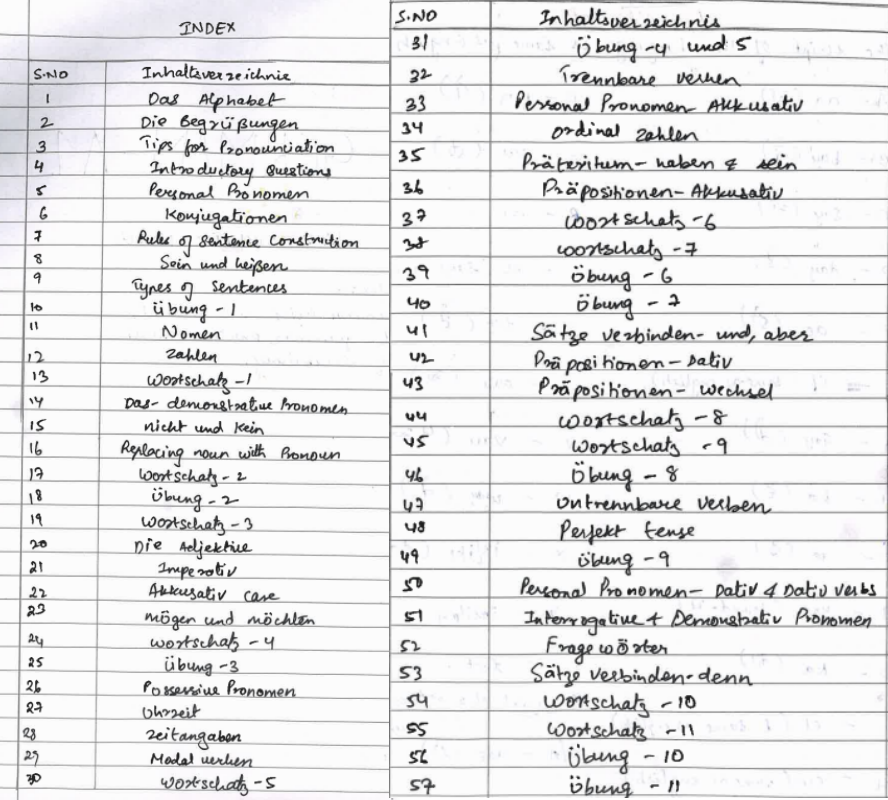
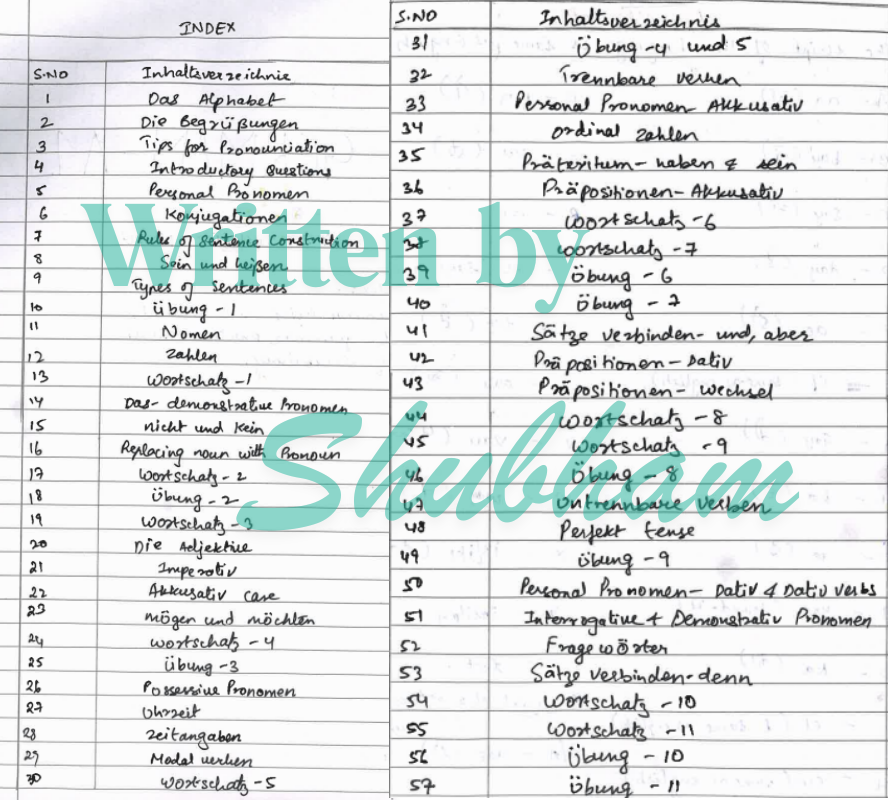
update

Changed region(s): [[0.2432, 0.5, 0.9122, 0.6875], [0.0912, 0.25, 0.6689, 0.4062]]

diff --git a/notes_update.html b/notes_update.html
@@ -480,7 +480,7 @@
                                     <!-- Centered PDF Viewer -->
                                     <div class="pdf-viewer-wrapper">
                                         <div class="pdf-viewer">
-                                            <iframe src="notesa1.pdf"></iframe>
+                                            <iframe src="notesa1"></iframe>
                                         </div>
                                     </div>
 
@@ -547,7 +547,84 @@
     </div>
     <!-- End Course Details -->
 
-    
+
+    <!-- Start Contact Us 
+    ============================================= -->
+    <div class="contact-style-one-area overflow-hidden default-padding-bottom">
+        <div class="container">
+            <div class="row">
+
+                <div class="contact-stye-one col-lg-10 offset-lg-1">
+                    <div class="contact-form-style-one">
+                        <h2 class="heading">Fill the Form for Notes</h2>
+                        <form action="assets/mail/still yet to write" method="POST" class="contact-form contact-form">
+                            <div class="row">
+                                <div class="col-lg-12">
+                                    <div class="form-group">
+                                        <input class="form-control" id="name" name="name" placeholder="Name"
+                                            type="text">
+                                        <span class="alert-error"></span>
+                                    </div>
+                                </div>
+                            </div>
+                            <div class="row">
+                                <div class="col-lg-6">
+                                    <div class="form-group">
+                                        <input class="form-control" id="email" name="email" placeholder="Email*"
+                                            type="email">
+                                        <span class="alert-error"></span>
+                                    </div>
+                                </div>
+                                <div class="col-lg-6">
+                                    <div class="form-group">
+                                        <input class="form-control" id="phone" name="phone" placeholder="Phone"
+                                            type="text">
+                                        <span class="alert-error"></span>
+                                    </div>
+                                </div>
+                            </div>
+                            <!-- <div class="row">
+                                <div class="col-lg-12">
+                                    <div class="form-group comments">
+                                        <textarea class="form-control" id="comments" name="comments" placeholder="Tell Us About Query *"></textarea>
+                                    </div>
+                                </div>
+                            </div> -->
+                            <div class="row">
+                                <div class="col-lg-12">
+                                    <div class="form-group comments">
+                                        <select class="form-control" id="comments" name="comments" required>
+                                            <option value="">Select the Notes</option>
+                                            <option value="course_info">A1 Notes</option>
+                                            <option value="admission">A2 Notes</option>
+                                            <option value="fees">B1 Notes</option>
+                                            <option value="schedule">A1+A2 Notes</option>
+                                            <option value="other">A1+A2+B1 Notes</option>
+                                        </select>
+                                    </div>
+                                </div>
+                            </div>
+
+                            <div class="row">
+                                <div class="col-lg-12">
+                                    <button type="submit" name="submit" id="submit">
+                                        <i class="fa fa-paper-plane"></i> Get in Touch
+                                    </button>
+                                </div>
+                            </div>
+                            <!-- Alert Message -->
+                            <div class="col-lg-12 alert-notification">
+                                <div id="message" class="alert-msg"></div>
+                            </div>
+                        </form>
+                        <img src="assets/img/shape/88.png" alt="Image Not Found">
+                    </div>
+                </div>
+            </div>
+        </div>
+    </div>
+    <!-- End Contact -->
+
 
 
     <!-- Start Footer 

diff --git a/index.html b/index.html
@@ -1207,7 +1207,7 @@
                             <div class="fact-style-two">
                                 <div class="fun-fact">
                                     <div class="counter">
-                                        <div class="timer" data-to="200" data-speed="2000">200</div>
+                                        <div class="timer" data-to="150" data-speed="2000">150</div>
                                         <div class="operator">+</div>
                                     </div>
                                     <h4>pages notes for each level</h4>
